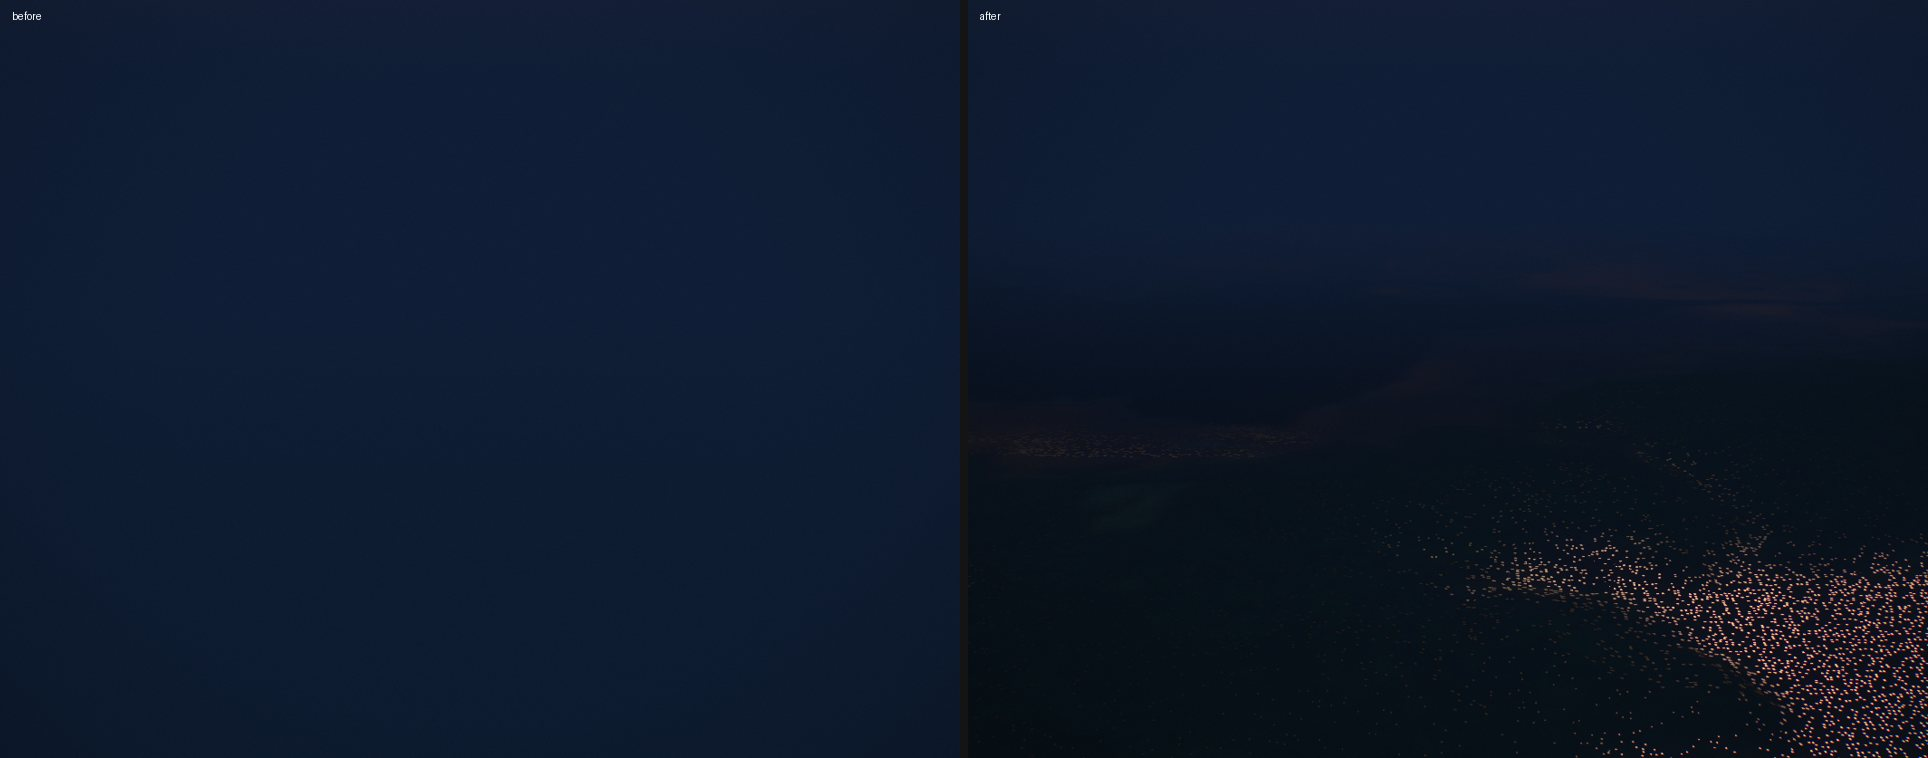
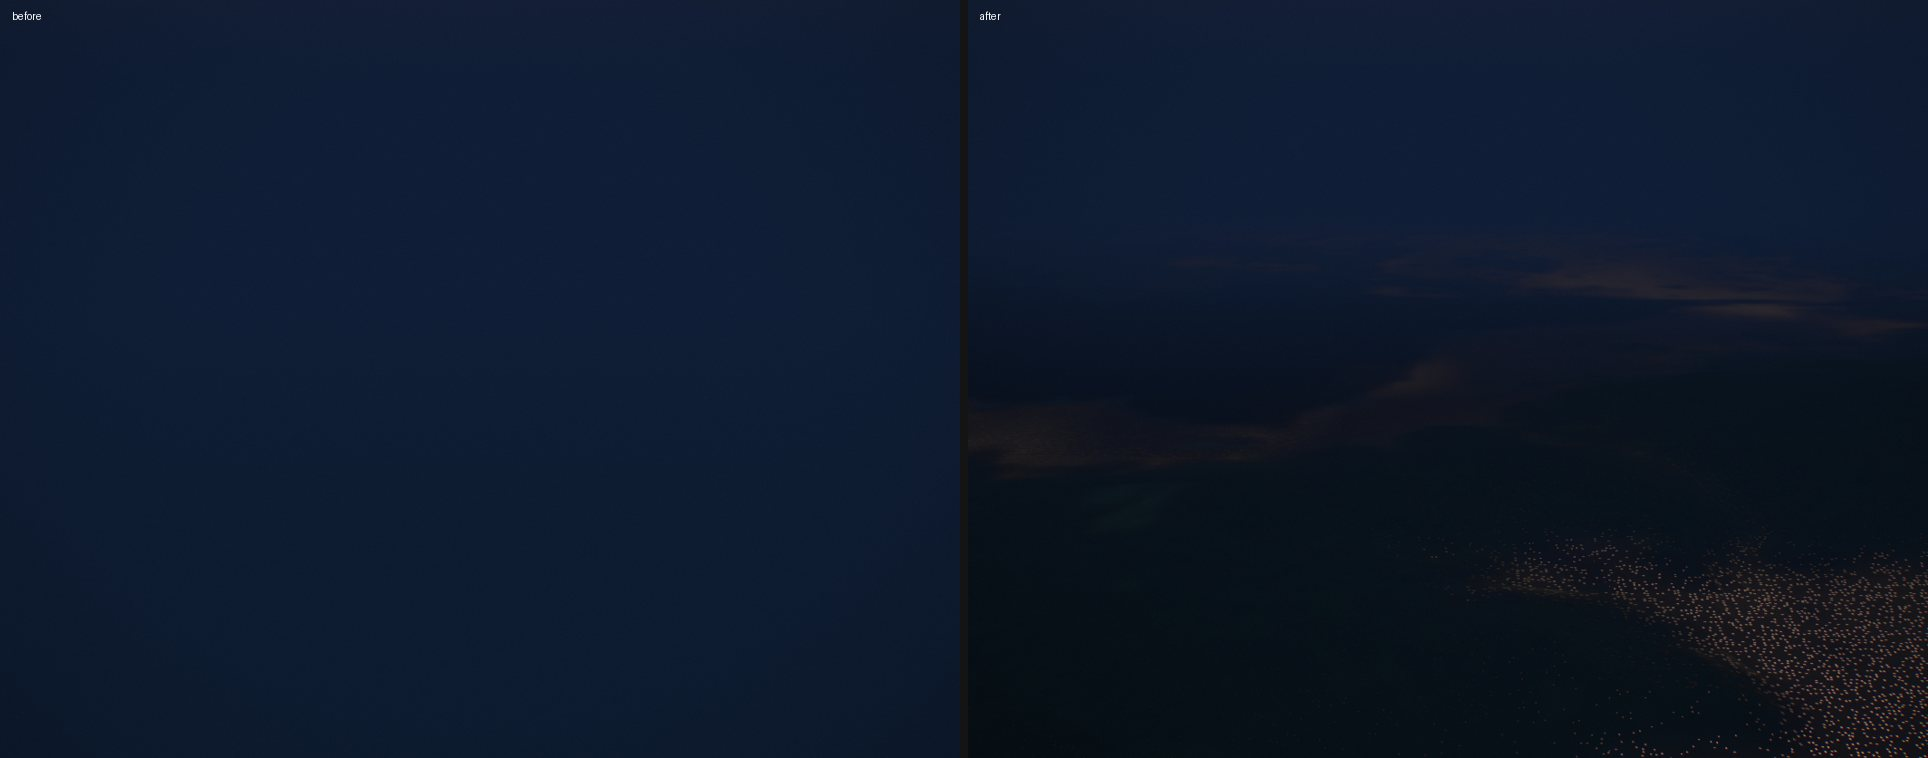
Far land at night: sub-pixel lights keep their energy, and meet the far glow without a step
A point of light drawn wider than itself was dimmed by the ratio of the radii, not the areas,
so the lights brightened with distance and then dropped to the far glow in a visible line
(Tokyo Bay from Odaiba). They now keep their mean at any distance, the glow they settle into
is lifted to what a tone curve shows of a sea of sub-pixel lights, the blend is wider, and the
lights are a little brighter. Night stills redone, with Odaiba's added.

Changed region(s): [[0.778, 0.7282, 1.0, 1.0]]

diff --git a/web/farland.js b/web/farland.js
@@ -149,10 +149,13 @@ float farN(vec2 p) { vec2 i = floor(p), f = fract(p); f = f * f * (3.0 - 2.0 * f
   vec2 o = vec2(farH(iq), farH(iq + 17.3)) - 0.5;
   float fw = max(fwidth(q.x), fwidth(q.y)), dens = 0.08 + 0.5 * L;
   float on = step(1.0 - dens, farH(iq + 5.1)), r = length(fq - 0.6 * o);
-  // a dot of radius 0.07 cells; one smaller than a pixel is drawn a pixel wide and that much dimmer
-  // (as a camera sees a point of light: smaller than a pixel, it is still a pixel, less bright)
-  float rr = max(0.07, fw), dots = on * (1.0 - smoothstep(rr * 0.5, rr, r)) * 0.07 / rr / (dens * 0.0090);
-  float grain = 0.12 + mix(dots, 0.88, smoothstep(0.35, 0.9, fw));
+  // a dot of radius 0.07 cells; one smaller than a pixel is drawn a pixel wide and dimmer by the
+  // ratio of the areas (as a camera sees a point of light: its light spread over the pixel), so
+  // the mean over many cells stays at about 1 at any distance
+  float rr = max(0.07, fw), k = 0.07 / rr, dots = on * (1.0 - smoothstep(rr * 0.5, rr, r)) * k * k / (dens * 0.0090);
+  // where the points merge, the glow they leave: brighter than their strict mean, as a camera's
+  // tone curve shows a sea of sub-pixel lights, so that the two meet without a step
+  float grain = 0.2 + mix(0.8 * dots, 1.8, smoothstep(0.15, 1.2, fw));
   L *= L; // Black Marble's visual product saturates over a city: more contrast between core and suburb
   totalEmissiveRadiance *= L * grain * uFarNight;
 }`);
@@ -166,7 +169,7 @@ float farN(vec2 p) { vec2 i = floor(p), f = fract(p); f = f * f * (3.0 - 2.0 * f
     return {
       mesh, height,
       // after dark (world.js setSun, U.uNight 0..1)
-      setNight(k) { night.value = k; mat.emissiveIntensity = k > 0 ? 0.035 : 0; },
+      setNight(k) { night.value = k; mat.emissiveIntensity = k > 0 ? 0.05 : 0; },
       dispose() { geo.dispose(); mat.dispose(); lightTex.dispose(); col.dispose(); },
     };
   }
